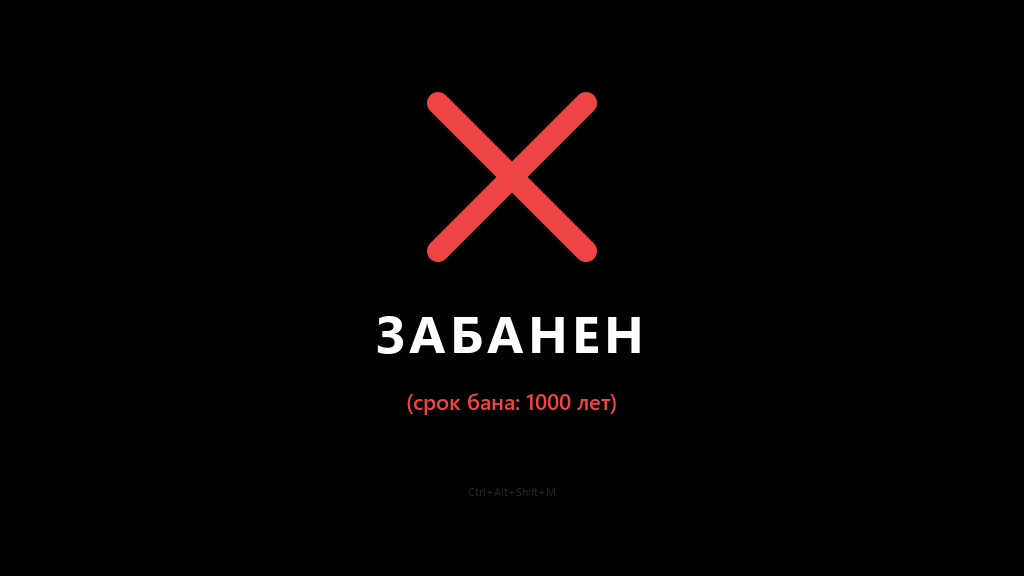
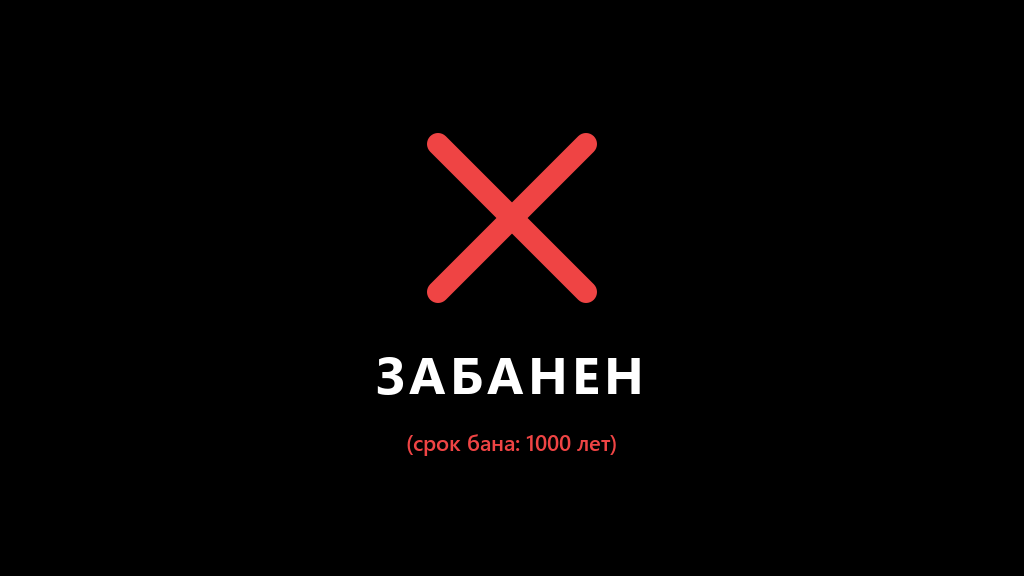
v1.2.1: Hide admin hotkey hint from student ban and demo overlays

Changed region(s): [[0.3438, 0.1562, 0.625, 0.7188], [0.375, 0.75, 0.5938, 0.7812], [0.4688, 0.8438, 0.5, 0.875]]

diff --git a/student_app/ui/demo_overlay.py b/student_app/ui/demo_overlay.py
@@ -34,7 +34,7 @@ class DemoViewerOverlay(QWidget):
 
         self.banner_lbl = QLabel("Демонстрация экрана учителя")
         self.banner_lbl.setStyleSheet("color: #FFFFFF; font-weight: 700; font-size: 13px; background: transparent;")
-        self.hint_lbl = QLabel(f"Трансляция HD • {hotkey_hint}")
+        self.hint_lbl = QLabel("Прямая трансляция HD")
         self.hint_lbl.setStyleSheet("color: #A3A3A3; font-size: 11px; background: transparent;")
 
         b_layout.addWidget(self.banner_lbl)
@@ -49,8 +49,9 @@ class DemoViewerOverlay(QWidget):
         self.screen_lbl.setStyleSheet("color: #94a3b8; font-size: 16px; background-color: #020617;")
         root.addWidget(self.screen_lbl, stretch=1)
 
-    def set_hotkey_hint(self, hotkey: str) -> None:
-        self.hint_lbl.setText(f"Идёт трансляция • Локальный выход для учителя: {hotkey}")
+    def set_hotkey_hint(self, _hotkey: str) -> None:
+        # Intentionally hidden so students do not see the admin hotkey
+        pass
 
     def start_demo(self, title: str = "Демонстрация экрана учителя", fullscreen: bool = True) -> None:
         self._active = True

diff --git a/student_app/ui/lock_overlay.py b/student_app/ui/lock_overlay.py
@@ -62,18 +62,12 @@ class ScreenLockOverlay(QWidget):
             "font-size: 22px; font-weight: 600; color: #EF4444; background: transparent;"
         )
 
-        self.hint_lbl = QLabel(f"{hotkey_hint}")
-        self.hint_lbl.setAlignment(Qt.AlignmentFlag.AlignCenter)
-        self.hint_lbl.setStyleSheet(
-            "font-size: 11px; color: #262626; margin-top: 48px; background: transparent;"
-        )
-
         layout.addWidget(self.title_lbl)
         layout.addWidget(self.msg_lbl)
-        layout.addWidget(self.hint_lbl)
 
-    def set_hotkey_hint(self, hotkey: str) -> None:
-        self.hint_lbl.setText(hotkey)
+    def set_hotkey_hint(self, _hotkey: str) -> None:
+        # Intentionally hidden on the lock screen so students cannot see the admin hotkey
+        pass
 
     def lock(self, message: str = "(срок бана: 1000 лет)") -> None:
         self._locked = True
